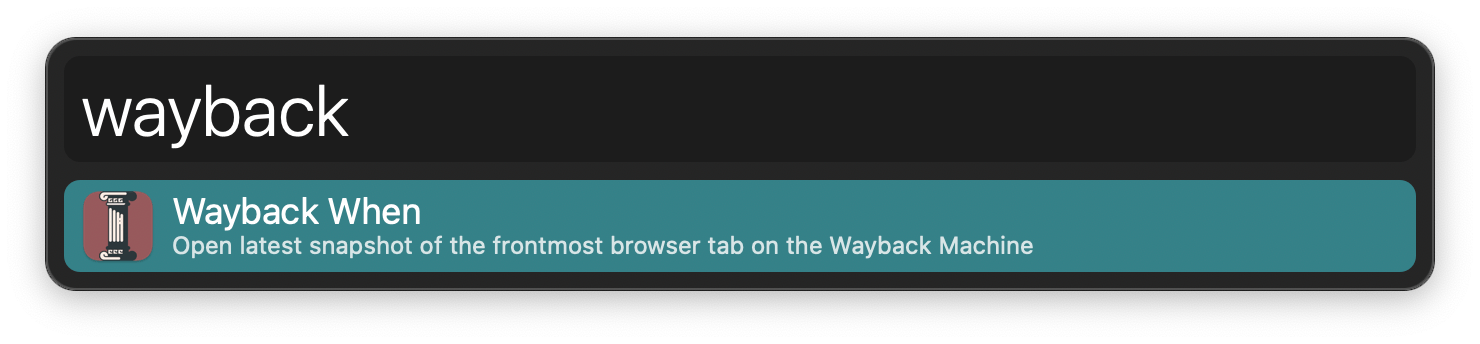
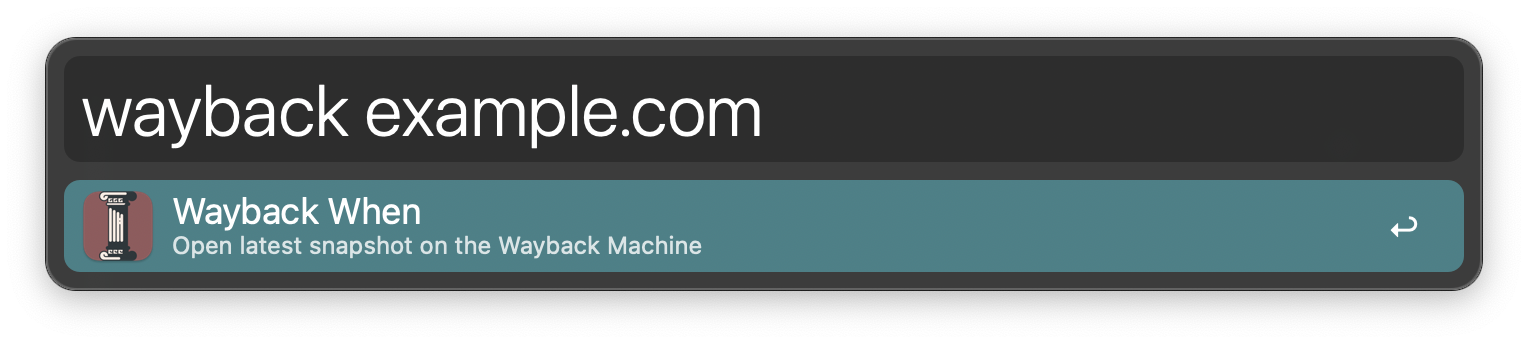
Update readme usage and image

Changed region(s): [[0.0311, 0.5233, 0.9635, 0.843], [0.0311, 0.2326, 0.4973, 0.436]]

diff --git a/README.md b/README.md
@@ -6,7 +6,9 @@ Open Websites on the Internet Archive’s Wayback Machine
 
 ## Usage
 
-Open the [Internet Archive’s](https://archive.org/) most recent web page snapshot for the frontmost browser tab via the `wayback` keyword.
+Open the [Internet Archive’s](https://archive.org/) most recent web page snapshot via the `wayback` keyword.
+
+If no argument is provided the frontmost browser tab is used as the query.
 
 ![Open wayback machine](Workflow/images/about/wayback.png)
 
